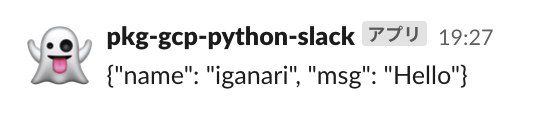
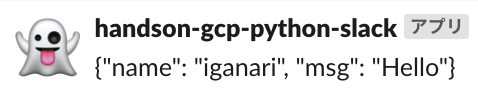
微修正

Changed region(s): [[0.0293, 0.125, 0.9958, 0.8438], [0.205, 0.8125, 0.2343, 0.8438]]

diff --git a/functions/trigger-cloudpubsub/python-slack/src/main.py b/functions/trigger-cloudpubsub/python-slack/src/main.py
@@ -14,7 +14,7 @@ def send_slack(event, context):
 
     ### Slack 投稿データ
     slack_post_data = {}
-    slack_post_data['username'] = 'pkg-gcp-python-slack'
+    slack_post_data['username'] = 'handson-gcp-python-slack'
     slack_post_data['icon_emoji'] = ':ghost:'
     slack_post_data['link_names'] = '0'
     slack_post_data['text'] = pubsub_message

diff --git a/functions/trigger-cloudpubsub/python-slack/README.md b/functions/trigger-cloudpubsub/python-slack/README.md
@@ -1,15 +1,10 @@
 # Pub/Sub に来たデータを Slack の特定のチャンネルに投稿する
 
-# Python | Basic Slack
-
 ## 概要
 
 Pub/Sub に来たデータを Slack の特定のチャンネルに投稿できるようにします
 
----> ハンズオン
-
-
-## やってみる
+## ハンズオン
 
 ## 1. Incoming Webhook の作成
 
@@ -32,7 +27,7 @@ export _common='python-slack'
 export _slack_webhook_url='1 で取得しておいた Incoming Webhook の Webhook URL を入れる'
 ```
 
-## 3. Secret Manager
+## 3. Secret Manager の作成
 
 + Secret Manager に Slack の Incoming Webhook を格納しておきます
 
@@ -43,7 +38,7 @@ echo -n "${_slack_webhook_url}" | gcloud beta secrets create SLACK_WEBHOOK_URL -
 ![](./img/3-01.png)
 
 
-## 4. IAM
+## 4. IAM の設定
 
 + Service Account を作成します
 
@@ -106,13 +101,17 @@ gcloud beta pubsub topics publish ${_common}-topic \
 
 ![](./img/7-01.png)
 
-
 ---> これで Pub/Sub に来たデータを Slack の特定のチャンネルに投稿できるようになりました :)
-
 
 ## リソースの削除
 
-+ Cloud Functions の削除
+実験が終わったら今回作成したリソースを削除しましょう.
+
+<details>
+<summary>Details</summary>
+
+
++ Cloud Functions の削除を削除します
 
 ```
 gcloud beta functions delete send_slack \
@@ -121,9 +120,10 @@ gcloud beta functions delete send_slack \
   -q
 ```
 
-+ Pub/Sub Topic の削除
++ Pub/Sub の Topic の削除します
 
 ```
 gcloud beta pubsub topics delete ${_common}-topic --project ${_gcp_pj_id}
 ```
 
+</details>
